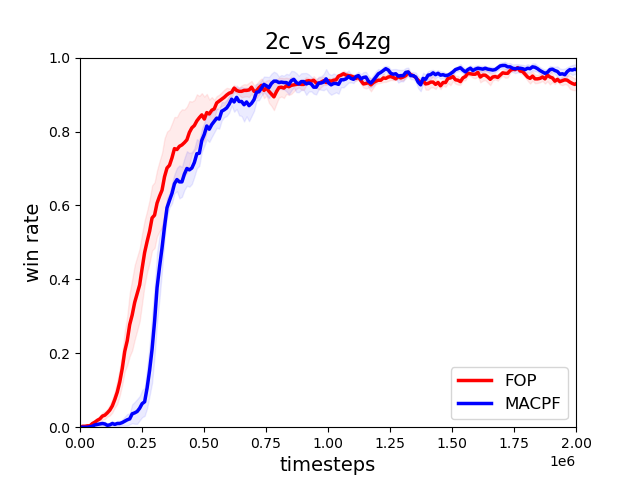
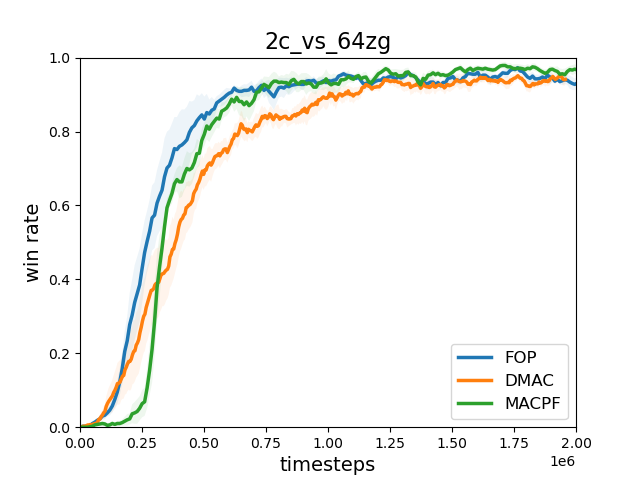
include dmac results

Changed region(s): [[0.125, 0.125, 0.9062, 0.9062], [0.6875, 0.7188, 0.875, 0.8438]]

diff --git a/README.md b/README.md
@@ -22,9 +22,7 @@ Environment variable **CUBLAS_WORKSPACE_CONFIG** is recommended to enforce deter
 ## Results
 
 Here, we provide results in three different SMAC scenarios using default hyperparameters.
- <center class="half">
-     <img src="./img/3s_vs_3z.png" width="200"/>   <img src="./img/2c_vs_64zg.png" width="200"/>   <img src="./img/MMM2.png" width="200"/>
-</center>
+![3s_vs_3z](./img/3s_vs_3z.png)![2c_vs_64zg](./img/2c_vs_64zg.png)![MMM2](./img/MMM2.png)
 
 ## Citation
 
@@ -43,24 +41,22 @@ If you are using the codes, you are welcomed cite our paper.
             organization={PMLR}
     }
 
-[Tianhao Zhang, Yueheng Li, Chen Wang, Guangming Xie and Zongqing Lu. *Divergence-Regularized Multi-Agent Actor-Critic*. ICML'22.](https://arxiv.org/abs/1810.09202)
+[Kefan Su and Zongqing Lu. *Divergence-Regularized Multi-Agent Actor-Critic*. ICML'22.](https://arxiv.org/abs/1810.09202)
 
-    @inproceedings{zhang2021fop,
-            title={Fop: Factorizing optimal joint policy of maximum-entropy multi-agent reinforcement learning},
-            author={Zhang, Tianhao and Li, Yueheng and Wang, Chen and Xie, Guangming and Lu, Zongqing},
+    @inproceedings{su2022divergence,
+            title={Divergence-regularized multi-agent actor-critic},
+            author={Su, Kefan and Lu, Zongqing},
             booktitle={International Conference on Machine Learning},
-            pages={12491--12500},
-            year={2021},
+            pages={20580--20603},
+            year={2022},
             organization={PMLR}
     }
 
-[Tianhao Zhang, Yueheng Li, Chen Wang, Guangming Xie and Zongqing Lu. *FOP: Factorizing Optimal Joint Policy of Maximum-Entropy Multi-Agent Reinforcement Learning*. ICML'21.](https://arxiv.org/abs/1810.09202)
+[Jiangxing Wang and Zongqing Lu. *More Centralized Training, Still Decentralized Execution: Multi-Agent Conditional Policy Factorization*.](https://arxiv.org/abs/1810.09202)
 
-    @inproceedings{zhang2021fop,
-            title={Fop: Factorizing optimal joint policy of maximum-entropy multi-agent reinforcement learning},
-            author={Zhang, Tianhao and Li, Yueheng and Wang, Chen and Xie, Guangming and Lu, Zongqing},
-            booktitle={International Conference on Machine Learning},
-            pages={12491--12500},
-            year={2021},
-            organization={PMLR}
+    @article{wang2022more,
+        title={More Centralized Training, Still Decentralized Execution: Multi-Agent Conditional Policy Factorization},
+        author={Wang, Jiangxing and Ye, Deheng and Lu, Zongqing},
+        journal={arXiv preprint arXiv:2209.12681},
+        year={2022}
     }
